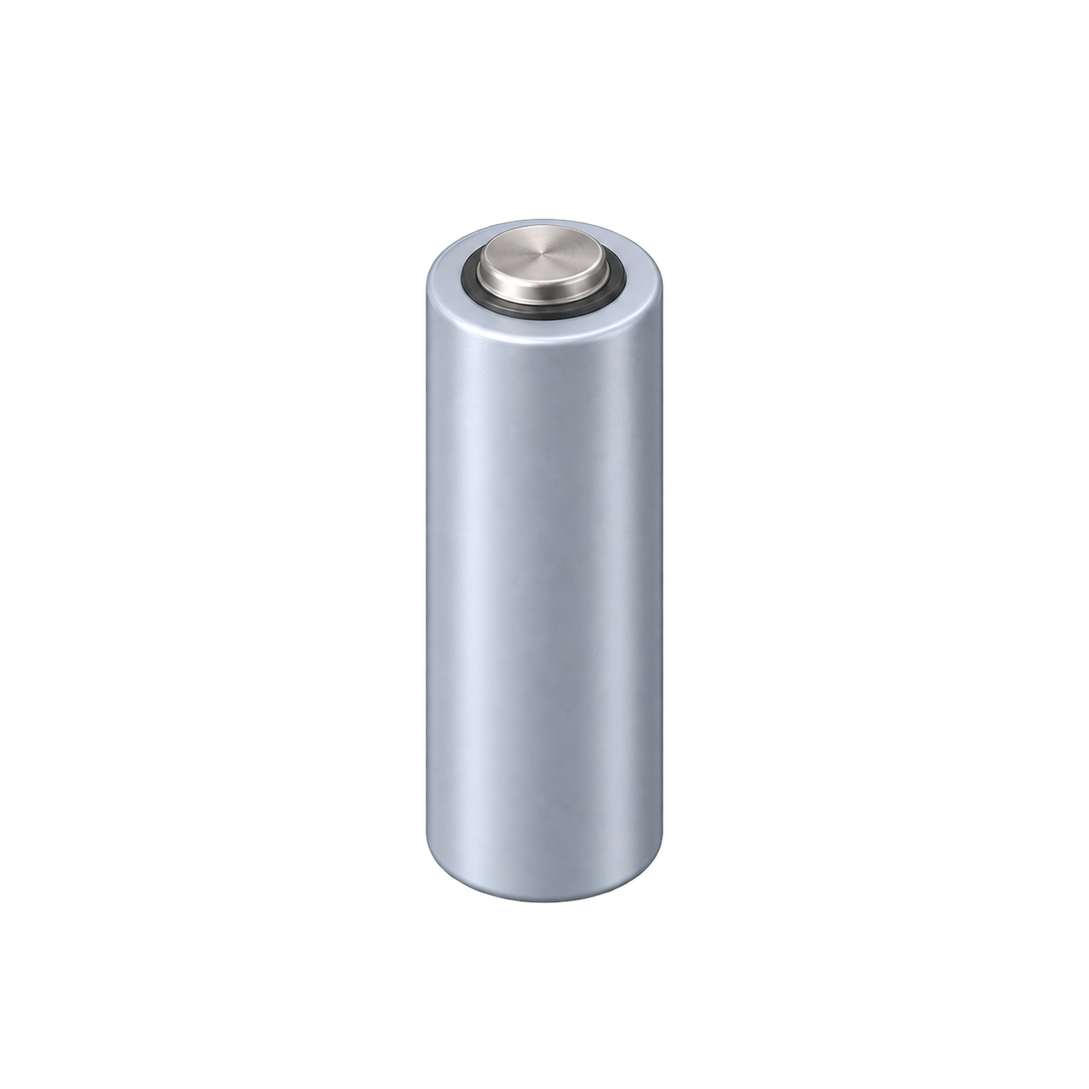
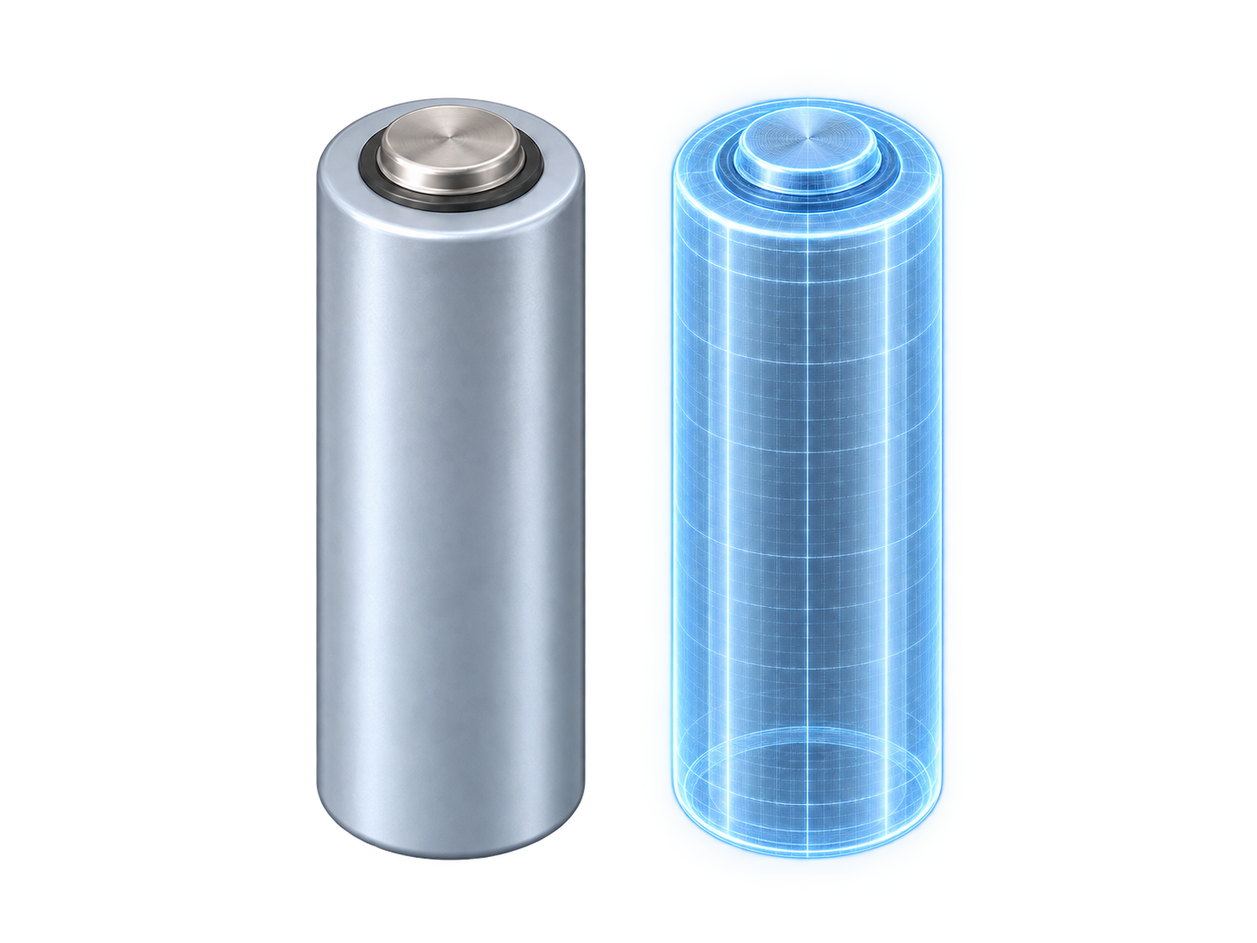
Improve Studio workflow and digital twin visuals

diff --git a/styles/digital-twin.css b/styles/digital-twin.css
@@ -7,31 +7,60 @@
 .studio-section-heading { margin-bottom: 24px; }
 #page-digital-twin .studio-section-heading h2 { margin: 0; color: var(--text1); font-family: var(--sans); font-size: clamp(21px,2vw,28px); font-weight: 750; letter-spacing: -.025em; }
 
-/* Explanatory system map. Every bubble contains only the step and title. */
-.studio-process-flow { display: grid; grid-template-columns: minmax(108px,1fr) 28px minmax(122px,1fr) 28px minmax(168px,1.18fr) 28px minmax(128px,1fr); grid-template-rows: auto auto; align-items: center; gap: 22px 8px; padding: 22px; border: 1px solid var(--border); border-radius: 14px; background: linear-gradient(rgba(93,126,174,.045) 1px,transparent 1px),linear-gradient(90deg,rgba(93,126,174,.045) 1px,transparent 1px),var(--surface-alt); background-size: 24px 24px,24px 24px,auto; }
-.studio-process-node { min-width: 0; min-height: 84px; display: flex; align-items: center; gap: 10px; padding: 14px; border: 1px solid var(--border2); border-radius: 16px; color: var(--text2); background: var(--surface); box-shadow: 0 6px 18px rgba(22,30,48,.045); }
-.studio-process-node span { flex: 0 0 30px; display: grid; place-items: center; width: 30px; height: 30px; border-radius: 9px; color: var(--accent); background: var(--accent-light); font-size: 10px; font-weight: 800; }
-.studio-process-node strong { min-width: 0; font-size: 12px; font-weight: 700; line-height: 1.3; }
-.studio-process-calibration { border-color: color-mix(in srgb,var(--accent) 38%,var(--border)); box-shadow: inset 0 0 0 1px color-mix(in srgb,var(--accent) 8%,transparent),0 8px 22px rgba(42,95,234,.07); }
-.studio-process-arrow { color: var(--accent); font-style: normal; font-size: 22px; text-align: center; }
-.studio-process-step-1 { grid-area: 1/1; }.studio-process-arrow-1 { grid-area: 1/2; }
-.studio-process-step-2 { grid-area: 1/3; }.studio-process-arrow-2 { grid-area: 1/4; }
-.studio-process-calibration { grid-area: 1/5; position: relative; }
+/* Explanatory system map. The lower row reads back toward the left, so 03 feeds 04 directly. */
+.studio-process-flow { display: grid; grid-template-columns: minmax(145px,1fr) 34px minmax(150px,1.08fr) 34px minmax(178px,1.24fr); grid-template-rows: auto auto; align-items: center; gap: 22px 8px; padding: 22px; border: 1px solid var(--border); border-radius: 14px; background: linear-gradient(rgba(93,126,174,.045) 1px,transparent 1px),linear-gradient(90deg,rgba(93,126,174,.045) 1px,transparent 1px),var(--surface-alt); background-size: 24px 24px,24px 24px,auto; }
+.studio-process-node { min-width: 0; min-height: 112px; display: grid; grid-template-columns: 32px minmax(0,1fr); align-items: start; gap: 10px; padding: 14px; border: 1px solid var(--border2); border-radius: 16px; color: var(--text2); background: var(--surface); box-shadow: 0 6px 18px rgba(22,30,48,.045); }
+.studio-process-number { display: grid; place-items: center; width: 32px; height: 32px; border-radius: 9px; color: var(--accent); background: var(--accent-light); font-size: 10px; font-weight: 800; }
+.studio-process-body { min-width: 0; display: grid; grid-template-columns: 27px minmax(0,1fr); grid-template-rows: auto auto; column-gap: 8px; align-items: center; }
+.studio-process-icon { grid-row: 1/3; display: grid; place-items: center; width: 27px; height: 27px; border-radius: 8px; color: #2a5fea; background: color-mix(in srgb,var(--accent) 11%,var(--surface)); }
+.studio-process-icon svg { width: 17px; height: 17px; fill: none; stroke: currentColor; stroke-width: 1.8; stroke-linecap: round; stroke-linejoin: round; }
+.studio-process-node strong { min-width: 0; color: var(--text1); font-size: 12px; font-weight: 750; line-height: 1.25; }
+.studio-process-node small { min-width: 0; margin-top: 3px; color: var(--text3); font-size: 10px; line-height: 1.3; }
+.studio-process-step-1 .studio-process-icon { color: #16845b; background: rgba(22,163,107,.11); }.studio-process-step-2 .studio-process-icon { color: #7c3aed; background: rgba(124,58,237,.1); }.studio-process-setup .studio-process-icon { color: #d97706; background: rgba(217,119,6,.1); }.studio-process-result .studio-process-icon { color: #16845b; background: rgba(22,163,107,.11); }
+.studio-process-calibration { grid-area: 1/5; position: relative; border-color: color-mix(in srgb,var(--accent) 46%,var(--border)); box-shadow: inset 0 0 0 1px color-mix(in srgb,var(--accent) 9%,transparent),0 8px 22px rgba(42,95,234,.07); }
 .studio-process-calibration::after { content: ''; position: absolute; top: 100%; left: 50%; width: 1.5px; height: 23px; background: var(--accent); }
 .studio-process-calibration::before { content: ''; position: absolute; z-index: 2; left: calc(50% - 4px); top: calc(100% + 15px); width: 7px; height: 7px; border-right: 1.5px solid var(--accent); border-bottom: 1.5px solid var(--accent); transform: rotate(45deg); }
-.studio-process-setup { grid-area: 2/3; }.studio-process-arrow-4 { grid-area: 2/4; }
-.studio-process-engine { grid-area: 2/5; }.studio-process-arrow-5 { grid-area: 2/6; }
-.studio-process-result { grid-area: 2/7; }
-.studio-process-engine { border-color: color-mix(in srgb,var(--accent) 48%,var(--border)); background: linear-gradient(145deg,color-mix(in srgb,var(--accent) 11%,var(--surface)),var(--surface)); }
-.studio-process-engine span { color: #fff; background: linear-gradient(145deg,#2a5fea,#6146d7); }
-.studio-process-engine .studio-process-piml-logo { flex-basis: 34px; width: 34px; height: 34px; border-radius: 50%; }
-.studio-process-piml-logo svg { width: 24px; height: 24px; fill: none; stroke: currentColor; stroke-width: 1.25; }
-.studio-process-piml-logo svg circle { fill: currentColor; stroke: none; }
-.studio-process-result { border-color: color-mix(in srgb,#16a36b 32%,var(--border)); }
-.studio-process-result span { color: #16845b; background: rgba(22,163,107,.1); }
-.studio-piml-explanation { display: grid; grid-template-columns: minmax(0,1fr) minmax(420px,1.15fr); align-items: stretch; gap: 16px; margin-top: 16px; padding: 18px; border: 1px solid color-mix(in srgb,var(--accent) 24%,var(--border)); border-radius: 13px; background: color-mix(in srgb,var(--accent) 3%,var(--surface)); }
-.studio-piml-explanation .studio-piml-diagram { min-height: 122px; padding: 0; }
-.studio-piml-explanation .studio-piml-core { min-height: 100px; }
+.studio-process-arrow { color: var(--accent); font-style: normal; font-size: 22px; font-weight: 650; text-align: center; }
+.studio-process-step-1 { grid-area: 1/1; }.studio-process-arrow-1 { grid-area: 1/2; }.studio-process-step-2 { grid-area: 1/3; }.studio-process-arrow-2 { grid-area: 1/4; }
+.studio-process-setup { grid-area: 2/5; }.studio-process-arrow-4 { grid-area: 2/4; }.studio-process-engine { grid-area: 2/3; }.studio-process-arrow-5 { grid-area: 2/2; }.studio-process-result { grid-area: 2/1; }
+.studio-process-engine { position: relative; overflow: hidden; border-color: rgba(147,197,253,.68); color: var(--text1); background: linear-gradient(135deg,rgba(96,165,250,.18),rgba(147,197,253,.36) 38%,rgba(125,211,252,.30) 72%,rgba(96,165,250,.20)),var(--surface); box-shadow: 0 10px 25px rgba(96,165,250,.14),inset 0 1px 0 rgba(255,255,255,.38); }
+.studio-process-engine .studio-process-number { color: var(--accent); background: rgba(255,255,255,.58); font-size: 9px; }.studio-process-engine strong,.studio-process-engine small { position: relative; color: var(--text1); }.studio-process-engine small { color: var(--text3); }.studio-process-engine .studio-process-icon { color: var(--accent); background: rgba(255,255,255,.5); }
+.studio-process-piml-logo svg { width: 20px; height: 20px; stroke-width: 1.3; }.studio-process-piml-logo svg circle { fill: currentColor; stroke: none; }
+.studio-process-result { border-color: color-mix(in srgb,#16a36b 38%,var(--border)); }
+.studio-piml-explanation { display: grid; grid-template-columns: minmax(300px,.92fr) minmax(420px,1.15fr); align-items: stretch; gap: 16px; margin-top: 16px; padding: 18px; border: 1px solid color-mix(in srgb,#6146d7 32%,var(--border)); border-radius: 14px; background: linear-gradient(110deg,color-mix(in srgb,var(--accent) 5%,var(--surface)),color-mix(in srgb,#6146d7 5%,var(--surface))); }
+.studio-piml-formula-card { display: flex; flex-direction: column; justify-content: center; gap: 13px; min-width: 0; padding: 16px; border: 1px solid color-mix(in srgb,var(--accent) 21%,var(--border)); border-radius: 12px; background: var(--surface); }
+.studio-piml-card-title { display: flex; align-items: center; gap: 9px; }.studio-piml-card-title > span { display: grid; place-items: center; width: 31px; height: 31px; border-radius: 9px; color: #fff; background: linear-gradient(145deg,#2a5fea,#6146d7); font: 800 16px var(--mono); }.studio-piml-card-title div { display: grid; gap: 2px; }.studio-piml-card-title strong { color: var(--text1); font-size: 12px; }.studio-piml-card-title small { color: var(--text3); font-size: 10px; }
+.studio-piml-explanation .studio-formula { min-height: 64px; padding: 10px; border-color: color-mix(in srgb,var(--accent) 15%,var(--border)); background: var(--surface-alt); font-size: clamp(12px,1.15vw,16px); }
+.studio-piml-explanation .studio-piml-diagram { min-height: 148px; padding: 4px 4px 0; }.studio-piml-explanation .studio-piml-core { min-height: 122px; }
+
+/* Compact visual previews keep each step illustrative without turning the map into a dashboard. */
+.studio-process-node { display: block; min-height: 148px; padding: 13px; }
+.studio-process-node-head { display: flex; align-items: center; gap: 9px; min-width: 0; }.studio-process-node-head .studio-process-number { flex: 0 0 32px; }.studio-process-node-head strong { min-width: 0; font-size: 13px; line-height: 1.2; }
+.studio-process-visual { position: relative; min-width: 0; margin: 10px 0 0 41px; }.studio-process-visual > span { color: var(--text3); font-size: 9px; }
+.studio-dataset-preview { display: flex; align-items: center; gap: 8px; min-height: 68px; }.studio-dataset-preview img { display: block; width: 44px; height: 66px; object-fit: contain; filter: drop-shadow(0 4px 4px rgba(25,43,78,.16)); }.studio-dataset-preview div { display: grid; gap: 4px; }.studio-dataset-preview b { color: var(--text1); font-size: 12px; }.studio-dataset-preview small { color: #16845b; font-size: 10px; font-weight: 650; }
+.studio-feature-preview svg,.studio-results-preview svg { display: block; width: 100%; height: 48px; overflow: visible; }.studio-feature-preview > span,.studio-results-preview > span { display: flex; align-items: center; gap: 5px; margin-top: 4px; color: var(--text3); font-size: 9px; }.feature-grid { fill: none; stroke: var(--border); stroke-width: 1; }.feature-voltage,.feature-temperature,.result-voltage,.result-capacity { fill: none; stroke-width: 1.7; stroke-linecap: round; stroke-linejoin: round; }.feature-voltage,.result-voltage { stroke: #2a5fea; }.feature-temperature { stroke: #16a36b; }.result-capacity { stroke: #7c3aed; }.dot-voltage { display: inline-block; width: 6px; height: 6px; border-radius: 50%; background: #2a5fea; }
+.studio-twin-preview { display: grid; place-items: center; min-height: 84px; overflow: hidden; border-radius: 10px; background: radial-gradient(circle at 50% 42%,rgba(65,196,255,.18),transparent 45%),linear-gradient(135deg,#112d69,#1e56b2); }.studio-twin-preview img { z-index: 1; width: 54px; height: 73px; object-fit: contain; filter: brightness(1.28) saturate(.45) drop-shadow(0 0 7px rgba(105,220,255,.9)); }.studio-twin-preview > span:last-child { position: absolute; z-index: 2; right: 8px; bottom: 6px; color: rgba(227,248,255,.88); font-size: 8px; }.studio-twin-orbit { position: absolute; width: 132px; height: 31px; border: 1px solid rgba(96,211,255,.65); border-radius: 50%; }.studio-twin-orbit.orbit-one { transform: rotate(-8deg); }.studio-twin-orbit.orbit-two { transform: rotate(9deg) scale(.74); opacity: .58; }
+.studio-scenario-preview { display: grid; grid-template-columns: repeat(2,minmax(0,1fr)); gap: 6px; }.studio-scenario-preview > span { display: flex; align-items: center; gap: 5px; min-width: 0; min-height: 35px; padding: 6px; border: 1px solid color-mix(in srgb,var(--accent) 16%,var(--border)); border-radius: 8px; color: var(--text2); background: var(--surface); font-size: 9px; font-weight: 650; line-height: 1.2; }.studio-scenario-preview i { display: grid; place-items: center; flex: 0 0 18px; width: 18px; height: 18px; border-radius: 6px; color: #d97706; background: rgba(217,119,6,.1); font-style: normal; font-size: 13px; }.studio-scenario-preview > span:last-child i { color: #0891b2; background: rgba(8,145,178,.1); }
+.studio-engine-logo img { position: relative; z-index: 1; mix-blend-mode: normal; }
+.studio-process-result { box-shadow: 0 6px 18px rgba(22,163,107,.08); }
+
+/* Five supplied Studio illustrations carry the visual story; the connector treatment is uniform in every direction. */
+.studio-process-flow { grid-template-columns: minmax(155px,1fr) 34px minmax(165px,1.08fr) 34px minmax(190px,1.24fr); grid-template-rows: auto 34px auto; row-gap: 7px; }
+.studio-process-node { min-height: 172px; padding: 13px; }.studio-process-node-head strong { font-size: 13px; }.studio-process-logo { height: 108px; margin: 3px 0 0 40px; overflow: hidden; }.studio-process-logo img { display: block; width: 116%; height: 116%; margin: -8% 0 0 -8%; object-fit: contain; mix-blend-mode: multiply; }
+.studio-process-step-1 { grid-area: 1/1; }.studio-process-arrow-1 { grid-area: 1/2; }.studio-process-step-2 { grid-area: 1/3; }.studio-process-arrow-2 { grid-area: 1/4; }.studio-process-calibration { grid-area: 1/5; }.studio-process-arrow-3 { grid-area: 2/5; }.studio-process-setup { grid-area: 3/5; }.studio-process-arrow-4 { grid-area: 3/4; }.studio-process-result { grid-area: 3/3; }
+.studio-process-calibration::before,.studio-process-calibration::after { display: none; }
+.studio-process-arrow { position: relative; display: block; align-self: center; width: 34px; height: 34px; color: transparent; font-size: 0; }
+.studio-process-arrow::before,.studio-process-arrow::after { content: ''; position: absolute; box-sizing: border-box; }
+.studio-process-arrow-1::before,.studio-process-arrow-2::before { top: 16px; left: 4px; width: 25px; border-top: 1.5px solid var(--accent); }.studio-process-arrow-1::after,.studio-process-arrow-2::after { top: 12px; right: 4px; width: 8px; height: 8px; border-top: 1.5px solid var(--accent); border-right: 1.5px solid var(--accent); transform: rotate(45deg); }
+.studio-process-arrow-4::before { top: 16px; left: 5px; width: 25px; border-top: 1.5px solid var(--accent); }.studio-process-arrow-4::after { top: 12px; left: 4px; width: 8px; height: 8px; border-bottom: 1.5px solid var(--accent); border-left: 1.5px solid var(--accent); transform: rotate(45deg); }
+.studio-process-arrow-3::before { top: 3px; left: 16px; height: 25px; border-left: 1.5px solid var(--accent); }.studio-process-arrow-3::after { bottom: 4px; left: 12px; width: 8px; height: 8px; border-right: 1.5px solid var(--accent); border-bottom: 1.5px solid var(--accent); transform: rotate(45deg); }
+
+/* Keep the familiar horizontal arrows; only the 03 → 04 transition is vertical. */
+.studio-process-flow { grid-template-rows: auto 28px auto; row-gap: 8px; }
+.studio-process-node { min-height: clamp(178px,17vw,218px); }.studio-process-logo { height: clamp(132px,11vw,166px); margin: 7px 2px 0; }.studio-process-logo img { width: 100%; height: 100%; margin: 0; object-fit: contain; transform: scale(1.34); transform-origin: center; }
+.studio-process-step-1 { grid-area: 1/1; }.studio-process-arrow-1 { grid-area: 1/2; }.studio-process-step-2 { grid-area: 1/3; }.studio-process-arrow-2 { grid-area: 1/4; }.studio-process-calibration { grid-area: 1/5; }.studio-process-arrow-3 { grid-area: 2/5; }.studio-process-setup { grid-area: 3/5; }.studio-process-arrow-4 { grid-area: 3/4; }.studio-process-engine { grid-area: 3/3; }.studio-process-arrow-5 { grid-area: 3/2; }.studio-process-result { grid-area: 3/1; }
+.studio-process-arrow { display: grid; place-items: center; width: auto; height: auto; color: var(--accent); font: 650 22px/1 var(--sans); text-align: center; }.studio-process-arrow::before,.studio-process-arrow::after { display: none; }.studio-process-arrow-3 { font-size: 22px; }
+.studio-engine-logo { position: relative; z-index: 1; border-radius: 0; background: transparent; }
 
 /* One unified working surface below the explanation. */
 .studio-operation-grid { display: grid; grid-template-columns: repeat(2,minmax(0,1fr)); gap: 20px; align-items: stretch; }
@@ -74,30 +103,34 @@
 #studio-confirm { min-width: 110px; }
 
 /* Feature cards */
-.studio-feature-grid { display: grid; grid-template-columns: repeat(3,minmax(0,1fr)); gap: 12px; }
-.studio-signal-card { min-width: 0; margin: 0; padding: 15px 15px 9px; border: 1px solid var(--border); border-radius: 11px; background: var(--surface); }
+.studio-features-step { display: flex; flex-direction: column; container-type: inline-size; }
+.studio-feature-grid { display: grid; flex: 1; grid-template-columns: repeat(3,minmax(0,1fr)); grid-auto-rows: minmax(132px,1fr); gap: 12px; }
+.studio-signal-card { min-width: 0; min-height: 0; display: flex; flex-direction: column; margin: 0; padding: 15px 15px 9px; border: 1px solid var(--border); border-radius: 11px; background: var(--surface); }
 .studio-signal-card figcaption { display: flex; align-items: baseline; justify-content: flex-start; gap: 8px; }
 .studio-signal-card figcaption strong { color: var(--text2); font-size: 12px; font-weight: 650; }
-.studio-signal-card svg { display: block; width: 100%; height: auto; margin-top: 6px; overflow: visible; }
+.studio-signal-card svg { display: block; flex: 1; width: 100%; min-height: 96px; height: 100%; margin-top: 6px; overflow: visible; }
 .studio-signal-card text { fill: var(--text4); font: 9px var(--sans); }
 .studio-mini-grid { fill: none; stroke: var(--border); stroke-width: 1; }
 .studio-signal-line { fill: none; stroke-width: 2.2; stroke-linecap: round; stroke-linejoin: round; }
 .line-blue { stroke: #2a5fea; }.line-cyan { stroke: #0891b2; }.line-amber { stroke: #d97706; }.line-violet { stroke: #7c3aed; }.line-rose { stroke: #e11d48; }.line-green { stroke: #16a36b; }
 .studio-signal-band { fill: rgba(22,163,107,.1); stroke: none; }
 .studio-feature-grid.is-reset .studio-signal-line,.studio-feature-grid.is-reset .studio-signal-band { opacity: 0; }
+@container (max-width:700px) { .studio-feature-grid { grid-template-columns: repeat(2,minmax(0,1fr)); grid-auto-rows: minmax(128px,1fr); }.studio-signal-card svg { min-height: 92px; } }
 
 /* PIML explanation and the combined calibration/twin workbench. */
 .studio-formula { min-height: 54px; display: flex; align-items: center; justify-content: center; padding: 10px 14px; border: 1px solid var(--border); border-radius: 9px; color: var(--text2); background: var(--surface-alt); font: 500 clamp(13px,1.4vw,18px) var(--mono); text-align: center; overflow-x: auto; }
 .studio-formula > span { color: var(--accent); font-weight: 700; }
 .studio-piml-diagram { display: grid; grid-template-columns: minmax(150px,1fr) 68px minmax(145px,.9fr); align-items: center; gap: 10px; min-height: 168px; padding: 16px 8px 0; }
 .studio-piml-inputs { display: grid; gap: 12px; }
-.studio-piml-inputs > span { display: flex; align-items: center; gap: 9px; padding: 11px; border: 1px solid var(--border); border-radius: 9px; color: var(--text2); font-size: 12px; font-weight: 600; }
-.studio-piml-inputs i { display: grid; place-items: center; flex: 0 0 27px; width: 27px; height: 27px; border-radius: 7px; color: var(--accent); background: var(--accent-light); font: 700 14px var(--mono); }
+.studio-piml-inputs > span { display: flex; align-items: center; gap: 9px; min-height: 51px; padding: 11px; border: 1px solid var(--border); border-radius: 9px; color: var(--text2); }
+.studio-piml-inputs i { display: grid; place-items: center; flex: 0 0 27px; width: 27px; height: 27px; border-radius: 7px; color: var(--accent); background: var(--accent-light); }
+.studio-piml-inputs i svg { width: 16px; height: 16px; fill: none; stroke: currentColor; stroke-width: 1.8; stroke-linecap: round; stroke-linejoin: round; }.studio-piml-inputs b { min-width: 0; font-size: 12px; font-weight: 650; line-height: 1.3; }
 .studio-piml-diagram > svg { width: 100%; fill: none; stroke: var(--border2); stroke-width: 1.5; }
-.studio-piml-core { position: relative; isolation: isolate; display: flex; flex-direction: column; align-items: center; justify-content: center; min-height: 112px; border: 1px solid color-mix(in srgb,var(--accent) 35%,var(--border)); border-radius: 50%; color: var(--accent); background: radial-gradient(circle at 50% 40%,var(--surface),var(--accent-light)); }
-.studio-piml-core strong { font: 800 19px var(--mono); letter-spacing: .08em; }
-.studio-piml-core small { margin-top: 5px; color: var(--text3); font-size: 9px; }
-.studio-core-orbit { position: absolute; z-index: -1; inset: -7px; border: 1px dashed color-mix(in srgb,var(--accent) 28%,transparent); border-radius: 50%; }
+.studio-piml-core { position: relative; isolation: isolate; display: flex; flex-direction: column; align-items: center; justify-content: center; min-height: 112px; overflow: hidden; border: 1px solid rgba(147,197,253,.68); border-radius: 16px; color: var(--accent); background: linear-gradient(135deg,rgba(96,165,250,.18),rgba(147,197,253,.36) 38%,rgba(125,211,252,.30) 72%,rgba(96,165,250,.20)),var(--surface); box-shadow: 0 10px 25px rgba(96,165,250,.14),inset 0 1px 0 rgba(255,255,255,.38); }
+.studio-piml-core > :not(.studio-core-orbit) { position: relative; z-index: 1; }
+.studio-piml-core > svg { width: 29px; height: 29px; margin-bottom: 5px; fill: none; stroke: currentColor; stroke-width: 1.25; }.studio-piml-core > svg circle { fill: currentColor; stroke: none; }
+.studio-piml-core strong { color: var(--text1); font: 800 19px var(--mono); letter-spacing: .08em; }.studio-piml-core small { margin-top: 3px; color: var(--text3); font-size: 9px; }.studio-piml-core em { margin-top: 5px; padding: 2px 6px; border-radius: 99px; color: var(--accent); background: rgba(255,255,255,.48); font: 600 8px var(--sans); font-style: normal; letter-spacing: .04em; text-transform: uppercase; }
+.studio-core-orbit { position: absolute; z-index: 0; inset: 8px; border: 1px dashed rgba(42,95,234,.28); border-radius: 50%; }
 .studio-calibration-workbench { display: grid; grid-template-columns: minmax(330px,.9fr) minmax(0,1.5fr); gap: 16px; align-items: stretch; }
 .studio-live-loss { display: flex; flex-direction: column; justify-content: center; padding: 20px; border: 1px solid var(--border); border-radius: 12px; background: var(--surface); }
 .studio-twin-build-panel { min-width: 0; display: grid; grid-template-columns: 160px minmax(0,1fr); align-items: center; gap: 18px; padding: 18px; border: 1px solid var(--border); border-radius: 12px; background: var(--surface); }
@@ -131,8 +164,35 @@
 .studio-twin-caption strong { display: block; color: var(--text2); font-size: 14px; font-weight: 650; }
 .studio-twin-caption span { color: var(--text3); font-size: 11px; }
 .studio-visual-placeholder { color: var(--text4); }
-.studio-twin-visual { position: relative; isolation: isolate; width: 100%; min-height: 235px; display: flex; align-items: center; justify-content: center; margin-top: 16px; border-radius: 12px; background: linear-gradient(rgba(93,126,174,.045) 1px,transparent 1px),linear-gradient(90deg,rgba(93,126,174,.045) 1px,transparent 1px); background-size: 18px 18px; overflow: hidden; }
-.studio-twin-image { position: relative; z-index: 1; display: block; width: min(55%,340px); height: 245px; object-fit: contain; margin: 18px auto 0; filter: drop-shadow(0 16px 21px rgba(45,67,98,.16)); }
+.studio-twin-visual { position: relative; isolation: isolate; width: 100%; min-height: 235px; display: flex; align-items: center; justify-content: center; margin-top: 16px; border-radius: 12px; background: radial-gradient(ellipse at 50% 84%,rgba(56,189,248,.15),transparent 45%),linear-gradient(rgba(93,126,174,.055) 1px,transparent 1px),linear-gradient(90deg,rgba(93,126,174,.055) 1px,transparent 1px); background-size: auto,18px 18px,18px 18px; overflow: hidden; }
+.studio-twin-effects { position: absolute; z-index: 0; inset: 0; overflow: hidden; pointer-events: none; }
+.studio-twin-beam { position: absolute; left: 50%; bottom: 19px; width: min(72%,420px); height: 220px; transform: translateX(-50%); border: 1px solid rgba(125,211,252,.24); border-radius: 46% 46% 28% 28% / 30% 30% 20% 20%; background: radial-gradient(ellipse at 50% 86%,rgba(56,189,248,.3) 0%,rgba(77,190,255,.16) 34%,rgba(96,165,250,.07) 57%,transparent 74%),linear-gradient(90deg,transparent 0%,rgba(125,211,252,.08) 18%,rgba(224,248,255,.14) 50%,rgba(125,211,252,.08) 82%,transparent 100%); box-shadow: inset 22px 0 35px -30px rgba(56,189,248,.75),inset -22px 0 35px -30px rgba(56,189,248,.75),0 0 28px rgba(56,189,248,.13); filter: drop-shadow(0 0 8px rgba(56,189,248,.18)); }
+.studio-twin-beam::before { content: ''; position: absolute; inset: 7% 5% 11%; border: 1px dashed rgba(125,211,252,.2); border-radius: inherit; }
+.studio-twin-beam::after { content: ''; position: absolute; left: 4%; right: 4%; bottom: -2px; height: 57px; border: 1px solid rgba(125,211,252,.35); border-radius: 50%; background: radial-gradient(ellipse,rgba(224,248,255,.2),rgba(56,189,248,.08) 48%,transparent 70%); box-shadow: 0 0 20px rgba(56,189,248,.16); }
+.studio-twin-platform { position: absolute; z-index: 1; left: 50%; bottom: 17px; width: min(70%,390px); height: 68px; transform: translateX(-50%); border: 1.5px solid rgba(56,189,248,.8); border-radius: 50%; background: radial-gradient(ellipse,rgba(224,248,255,.68) 0%,rgba(56,189,248,.18) 38%,rgba(42,95,234,.08) 58%,transparent 72%); box-shadow: 0 0 0 7px rgba(56,189,248,.07),0 0 0 14px rgba(42,95,234,.045),0 0 28px rgba(56,189,248,.32),inset 0 0 18px rgba(255,255,255,.6); }
+.studio-twin-platform::before,.studio-twin-platform::after { content: ''; position: absolute; left: 50%; top: 50%; border-radius: 50%; transform: translate(-50%,-50%); }
+.studio-twin-platform::before { width: 72%; height: 58%; border: 1px solid rgba(42,95,234,.58); box-shadow: 0 0 10px rgba(56,189,248,.25); }
+.studio-twin-platform::after { width: 31%; height: 20%; background: rgba(224,248,255,.78); box-shadow: 0 0 20px 8px rgba(56,189,248,.38); }
+.studio-twin-scan { position: absolute; z-index: 1; left: 50%; bottom: 21px; width: min(62%,350px); height: 56px; border: 1px dashed rgba(42,95,234,.48); border-radius: 50%; transform: translateX(-50%); animation: studio-twin-scan 3.2s ease-in-out infinite; }
+.studio-twin-particles { position: absolute; inset: 20px 9% 54px; opacity: .68; background: radial-gradient(circle at 16% 67%,rgba(56,189,248,.9) 0 1.5px,transparent 2px),radial-gradient(circle at 28% 28%,rgba(42,95,234,.65) 0 1px,transparent 1.7px),radial-gradient(circle at 74% 22%,rgba(56,189,248,.78) 0 1.5px,transparent 2px),radial-gradient(circle at 84% 61%,rgba(42,95,234,.7) 0 1px,transparent 1.7px),radial-gradient(circle at 63% 48%,rgba(125,211,252,.85) 0 1px,transparent 1.8px); filter: drop-shadow(0 0 4px rgba(56,189,248,.75)); }
+.studio-twin-image { position: relative; z-index: 2; display: block; width: min(58%,355px); height: 245px; object-fit: contain; margin: 18px auto 0; filter: drop-shadow(0 16px 21px rgba(45,67,98,.16)) drop-shadow(0 0 10px rgba(56,189,248,.16)); }
+.twin-form-prismatic,.twin-form-pouch { min-height: 310px; }
+.twin-form-prismatic .studio-twin-image,.twin-form-pouch .studio-twin-image { width: min(76%,430px); height: 210px; }
+.twin-form-prismatic .studio-twin-beam,.twin-form-pouch .studio-twin-beam { bottom: 20px; width: min(91%,520px); height: 235px; border-radius: 43% 43% 26% 26% / 32% 32% 22% 22%; }
+.twin-form-prismatic .studio-twin-tag.tag-soc,.twin-form-pouch .studio-twin-tag.tag-soc { top: 10px; left: 4%; }
+.twin-form-prismatic .studio-twin-tag.tag-soh,.twin-form-pouch .studio-twin-tag.tag-soh { top: 10px; right: 4%; }
+.twin-form-prismatic .studio-twin-tag.tag-voltage,.twin-form-pouch .studio-twin-tag.tag-voltage { bottom: 9px; left: 4%; }
+.twin-form-prismatic .studio-twin-tag.tag-temperature,.twin-form-pouch .studio-twin-tag.tag-temperature { right: 4%; bottom: 9px; }
+.twin-form-18650 .studio-twin-beam,.twin-form-21700 .studio-twin-beam,.twin-form-cyl .studio-twin-beam { width: min(72%,420px); height: 224px; }
+.studio-twin-tags { position: absolute; z-index: 3; inset: 0; pointer-events: none; }
+.studio-twin-tag { position: absolute; display: flex; align-items: center; gap: 6px; min-height: 31px; padding: 6px 9px; border: 1px solid rgba(96,165,250,.3); border-radius: 8px; color: var(--text2); background: color-mix(in srgb,var(--surface) 84%,transparent); box-shadow: 0 6px 15px rgba(42,95,234,.1),inset 0 1px 0 rgba(255,255,255,.48); backdrop-filter: blur(7px); -webkit-backdrop-filter: blur(7px); font-size: 11px; line-height: 1; white-space: nowrap; animation: studio-twin-float 4s ease-in-out infinite; }
+.studio-twin-tag i { flex: 0 0 6px; width: 6px; height: 6px; border-radius: 50%; background: #2a5fea; box-shadow: 0 0 7px rgba(42,95,234,.55); }
+.studio-twin-tag b { color: var(--text2); font-size: 11px; font-weight: 700; }.studio-twin-tag em { color: var(--accent); font-size: 11px; font-style: normal; font-weight: 750; font-variant-numeric: tabular-nums; }
+.studio-twin-tag.tag-soc { top: 36px; left: 5%; }.studio-twin-tag.tag-soh { top: 36px; right: 5%; animation-delay: -.9s; }.studio-twin-tag.tag-voltage { bottom: 47px; left: 3%; animation-delay: -1.8s; }.studio-twin-tag.tag-temperature { right: 3%; bottom: 47px; animation-delay: -2.7s; }
+.studio-twin-tag.tag-soh i { background: #16a36b; box-shadow: 0 0 7px rgba(22,163,107,.5); }.studio-twin-tag.tag-voltage i { background: #7c3aed; box-shadow: 0 0 7px rgba(124,58,237,.5); }.studio-twin-tag.tag-temperature i { background: #f59e0b; box-shadow: 0 0 7px rgba(245,158,11,.5); }
+@keyframes studio-twin-scan { 0%,100% { opacity: .3; transform: translateX(-50%) scale(.86); } 50% { opacity: .8; transform: translateX(-50%) scale(1.08); } }
+@keyframes studio-twin-float { 0%,100% { transform: translateY(0); } 50% { transform: translateY(-5px); } }
+@media (prefers-reduced-motion:reduce) { .studio-twin-scan,.studio-twin-tag { animation: none; }.studio-twin-scan { opacity: .58; } }
 .studio-twin-build-panel .studio-stage { min-height: 310px; }
 /* Generation setup */
 .studio-setup { display: grid; grid-template-columns: minmax(0,1fr) auto; align-items: end; gap: 22px; }
@@ -198,16 +258,13 @@
   .studio-control { grid-template-columns: 110px minmax(50px,1fr) 122px; gap: 10px; }
 }
 @media (max-width:1000px) {
-  .studio-process-flow { grid-template-columns: repeat(2,minmax(0,1fr)); grid-template-rows: repeat(9,auto); }
-  .studio-process-node { width: 100%; min-height: 68px; }
-  .studio-process-step-1 { grid-area: 1/1/2/3; }.studio-process-arrow-1 { grid-area: 2/1/3/3; }
-  .studio-process-step-2 { grid-area: 3/1/4/3; }.studio-process-arrow-2 { grid-area: 4/1/5/3; }
-  .studio-process-calibration { grid-area: 5/1; }.studio-process-setup { grid-area: 5/2; }
-  .studio-process-arrow-4 { grid-area: 6/1/7/3; }
-  .studio-process-engine { grid-area: 7/1/8/3; }.studio-process-arrow-5 { grid-area: 8/1/9/3; }
-  .studio-process-result { grid-area: 9/1/10/3; }
-  .studio-process-arrow { transform: rotate(90deg); }
-  .studio-process-calibration::before,.studio-process-calibration::after { display: none; }
+  .studio-process-flow { grid-template-columns: minmax(0,1fr); grid-template-rows: repeat(10,auto); }
+  .studio-process-node { width: 100%; min-height: 138px; }
+  .studio-process-step-1 { grid-area: 1/1; }.studio-process-arrow-1 { grid-area: 2/1; }
+  .studio-process-step-2 { grid-area: 3/1; }.studio-process-arrow-2 { grid-area: 4/1; }
+  .studio-process-calibration { grid-area: 5/1; }.studio-process-setup { grid-area: 6/1; }
+  .studio-process-arrow-4 { grid-area: 7/1; }.studio-process-engine { grid-area: 8/1; }.studio-process-arrow-5 { grid-area: 9/1; }.studio-process-result { grid-area: 10/1; }
+  .studio-process-arrow-1,.studio-process-arrow-2 { transform: rotate(90deg); }.studio-process-arrow-4,.studio-process-arrow-5 { transform: rotate(-90deg); }
   .studio-piml-explanation,.studio-calibration-workbench { grid-template-columns: minmax(0,1fr); }
   #studio-controls { grid-template-columns: minmax(0,1fr); }
 }
@@ -235,5 +292,11 @@
   .studio-scenario { grid-template-columns: minmax(0,1fr); gap: 8px; }
   #page-digital-twin .studio-run { width: 100%; }
   .studio-metrics { gap: 6px; }.studio-metric { padding-inline: 7px; }.studio-metric strong { font-size: 18px; }
-  .studio-stage { padding: 22px; }.studio-twin-image { width: 75%; }
+  .studio-stage { padding: 22px; }.studio-twin-image { width: 75%; }.studio-twin-tag { gap: 4px; padding: 5px 7px; }.studio-twin-tag.tag-soc,.studio-twin-tag.tag-voltage { left: 1%; }.studio-twin-tag.tag-soh,.studio-twin-tag.tag-temperature { right: 1%; }
+}
+
+@media (max-width:1000px) {
+  .studio-process-flow { grid-template-columns: minmax(0,1fr); grid-template-rows: repeat(11,auto); row-gap: 7px; }
+  .studio-process-node { min-height: min(68vw,260px); }.studio-process-logo { height: min(47vw,185px); }.studio-process-step-1 { grid-area: 1/1; }.studio-process-arrow-1 { grid-area: 2/1; }.studio-process-step-2 { grid-area: 3/1; }.studio-process-arrow-2 { grid-area: 4/1; }.studio-process-calibration { grid-area: 5/1; }.studio-process-arrow-3 { grid-area: 6/1; }.studio-process-setup { grid-area: 7/1; }.studio-process-arrow-4 { grid-area: 8/1; }.studio-process-engine { grid-area: 9/1; }.studio-process-arrow-5 { grid-area: 10/1; }.studio-process-result { grid-area: 11/1; }
+  .studio-process-arrow,.studio-process-arrow-1,.studio-process-arrow-2,.studio-process-arrow-3,.studio-process-arrow-4,.studio-process-arrow-5 { transform: none; }
 }

diff --git a/index.html b/index.html
@@ -28,7 +28,7 @@
 <link rel="stylesheet" href="styles/preprocessing.css">
 <link rel="stylesheet" href="styles/contribute.css">
 <link rel="stylesheet" href="styles/benchmark-results.css?v=real-curves-1">
-<link rel="stylesheet" href="styles/digital-twin.css?v=studio-workspace-15">
+<link rel="stylesheet" href="styles/digital-twin.css?v=studio-workspace-30">
 </head>
 <body>
 <div class="app">
@@ -922,24 +922,28 @@ bash run_benchmark.sh</pre>
     <div class="studio-workspace">
       <section class="studio-explainer" aria-labelledby="studio-overview-title">
         <div class="studio-section-heading"><h2 id="studio-overview-title">How the Studio Works</h2></div>
-        <div class="studio-process-flow" role="img" aria-label="Dataset selection and feature identification feed battery digital twin calibration. The calibrated digital twin and generation setup feed the generation engine, which produces generation results.">
-          <div class="studio-process-node studio-process-step-1"><span>01</span><strong>Select Dataset</strong></div>
+        <div class="studio-process-flow" role="img" aria-label="Select a dataset, identify its features, calibrate a digital twin, configure data generation, run the generation engine, then review generated results.">
+          <div class="studio-process-node studio-process-step-1"><div class="studio-process-node-head"><span class="studio-process-number">01</span><strong>Select Dataset</strong></div><div class="studio-process-logo"><img src="assets/images/studio-flow/select-dataset.png" alt="" aria-hidden="true"></div></div>
           <i class="studio-process-arrow studio-process-arrow-1" aria-hidden="true">→</i>
-          <div class="studio-process-node studio-process-step-2"><span>02</span><strong>Feature Identification</strong></div>
+          <div class="studio-process-node studio-process-step-2"><div class="studio-process-node-head"><span class="studio-process-number">02</span><strong>Feature Identification</strong></div><div class="studio-process-logo"><img src="assets/images/studio-flow/feature-identification.png" alt="" aria-hidden="true"></div></div>
           <i class="studio-process-arrow studio-process-arrow-2" aria-hidden="true">→</i>
-          <div class="studio-process-node studio-process-calibration"><span>03</span><strong>Calibrate Battery Digital Twin</strong></div>
-          <div class="studio-process-node studio-process-setup"><span>04</span><strong>Synthetic Data Generation Setup</strong></div>
-          <i class="studio-process-arrow studio-process-arrow-4" aria-hidden="true">→</i>
-          <div class="studio-process-node studio-process-engine"><span class="studio-process-piml-logo" aria-hidden="true"><svg viewBox="0 0 32 32"><circle cx="16" cy="16" r="4"/><ellipse cx="16" cy="16" rx="13" ry="6"/><ellipse cx="16" cy="16" rx="13" ry="6" transform="rotate(60 16 16)"/><ellipse cx="16" cy="16" rx="13" ry="6" transform="rotate(120 16 16)"/></svg></span><strong>Generation Engine</strong></div>
-          <i class="studio-process-arrow studio-process-arrow-5" aria-hidden="true">→</i>
-          <div class="studio-process-node studio-process-result"><span>05</span><strong>Synthetic Data Generation Results</strong></div>
+          <div class="studio-process-node studio-process-calibration"><div class="studio-process-node-head"><span class="studio-process-number">03</span><strong>Calibrate Digital Twin</strong></div><div class="studio-process-logo"><img src="assets/images/studio-flow/calibrate-digital-twin.png" alt="" aria-hidden="true"></div></div>
+          <i class="studio-process-arrow studio-process-arrow-3" aria-hidden="true">↓</i>
+          <div class="studio-process-node studio-process-setup"><div class="studio-process-node-head"><span class="studio-process-number">04</span><strong>Data Generation Setup</strong></div><div class="studio-process-logo"><img src="assets/images/studio-flow/data-generation-setup.png" alt="" aria-hidden="true"></div></div>
+          <i class="studio-process-arrow studio-process-arrow-4" aria-hidden="true">←</i>
+          <div class="studio-process-node studio-process-engine"><div class="studio-process-node-head"><span class="studio-process-number">PIML</span><strong>Generation Engine</strong></div><div class="studio-process-logo studio-engine-logo"><img src="assets/images/studio-flow/generation-engine.png" alt="" aria-hidden="true"></div></div>
+          <i class="studio-process-arrow studio-process-arrow-5" aria-hidden="true">←</i>
+          <div class="studio-process-node studio-process-result"><div class="studio-process-node-head"><span class="studio-process-number">05</span><strong>Data Generation Results</strong></div><div class="studio-process-logo"><img src="assets/images/studio-flow/data-generation-results.png" alt="" aria-hidden="true"></div></div>
         </div>
         <div class="studio-piml-explanation">
-          <div class="studio-formula" aria-label="Physics-informed machine learning loss formula"><span>ℒ<sub>PIML</sub></span> = λ<sub>d</sub> ‖ŷ − y‖² + λ<sub>p</sub> ‖∂ŷ/∂t − f<sub>physics</sub>(ŷ,u)‖²</div>
+          <div class="studio-piml-formula-card">
+            <div class="studio-piml-card-title"><span aria-hidden="true">ℒ</span><div><strong>Physics-informed objective</strong></div></div>
+            <div class="studio-formula" aria-label="Physics-informed machine learning loss formula"><span>ℒ(θ)</span> = ℒ<sub>data</sub> + λ ℒ<sub>physics</sub></div>
+          </div>
           <div class="studio-piml-diagram" role="img" aria-label="Identified features and physics constraints converge in physics-informed calibration">
-            <div class="studio-piml-inputs"><span><i>ƒ</i> Identified Features</span><span><i>∂</i> Physics Constraints</span></div>
+            <div class="studio-piml-inputs"><span><i><svg viewBox="0 0 24 24"><path d="M3 17c3-8 5 3 8-6s5 4 10-7"/><path d="M3 20h18"/></svg></i><b>Identified Features</b></span><span><i><svg viewBox="0 0 24 24"><path d="m12 3 7 4v10l-7 4-7-4V7z"/><path d="M8 12h8M12 8v8"/></svg></i><b>Physics Constraints</b></span></div>
             <svg viewBox="0 0 68 92" aria-hidden="true"><path d="M2 19h29c13 0 13 27 26 27h9M2 73h29c13 0 13-27 26-27h9"/><path d="m59 40 7 6-7 6"/></svg>
-            <div class="studio-piml-core"><span class="studio-core-orbit"></span><strong>PIML</strong><small>Calibration</small></div>
+            <div class="studio-piml-core"><span class="studio-core-orbit"></span><svg aria-hidden="true" viewBox="0 0 32 32"><circle cx="16" cy="16" r="4"/><ellipse cx="16" cy="16" rx="13" ry="6"/><ellipse cx="16" cy="16" rx="13" ry="6" transform="rotate(60 16 16)"/><ellipse cx="16" cy="16" rx="13" ry="6" transform="rotate(120 16 16)"/></svg><strong>PIML</strong><small>Calibration</small></div>
           </div>
         </div>
       </section>
@@ -967,7 +971,7 @@ bash run_benchmark.sh</pre>
             </div>
           </article>
 
-          <article class="studio-step" aria-labelledby="studio-features-title">
+          <article class="studio-step studio-features-step" aria-labelledby="studio-features-title">
             <div class="studio-step-head"><span class="studio-step-number">02</span><h3 id="studio-features-title">Feature Identification</h3></div>
             <div class="studio-feature-grid is-reset">
               <figure class="studio-signal-card"><figcaption><strong>Voltage (V)</strong></figcaption><svg viewBox="0 0 240 112" role="img" aria-label="Illustrative voltage line chart"><g class="studio-mini-grid"><path d="M28 12v76h198M28 31h198M28 50h198M28 69h198"/></g><path class="studio-signal-line line-blue" d="M28 77 C47 74 55 56 76 58 S106 71 124 46 S157 25 176 32 S204 51 226 21"/><text x="226" y="104" text-anchor="end">Cycle / time</text></svg></figure>
@@ -2112,7 +2116,7 @@ for dataset in resp.json()["items"]:
 <script src="js/analytics.js"></script>
 <script src="js/quality-engine.js"></script>
 <script src="js/main.js"></script>
-<script src="js/digital-twin.js?v=studio-workspace-15"></script>
+<script src="js/digital-twin.js?v=studio-workspace-18"></script>
 <script src="js/benchmark-results.js?v=real-curves-1"></script>
 <script src="js/preprocessing.js"></script>
 <script src="js/contribute.js"></script>

diff --git a/js/digital-twin.js b/js/digital-twin.js
@@ -66,11 +66,11 @@
   const catalog = () => bwFlowSortedDatasets(getCatalogDatasets().filter(bwIsCycleAgingDataset));
   const format = (key, value) => key === 'charge' ? value.toFixed(1) : String(value);
   const twinAssets = {
-    '18650': 'assets/images/studio-batteries/18650.png',
-    '21700': 'assets/images/studio-batteries/21700.png',
-    pouch: 'assets/images/studio-batteries/pouch.png',
-    prismatic: 'assets/images/studio-batteries/prismatic.png',
-    cyl: 'assets/images/studio-batteries/cyl.png'
+    '18650': 'assets/images/studio-batteries/18650.png?v=2',
+    '21700': 'assets/images/studio-batteries/21700.png?v=2',
+    pouch: 'assets/images/studio-batteries/pouch.png?v=2',
+    prismatic: 'assets/images/studio-batteries/prismatic.png?v=2',
+    cyl: 'assets/images/studio-batteries/cyl.png?v=2'
   };
   function twinAssetFor(form) {
     const value = String(form || '').trim().toLowerCase();
@@ -148,7 +148,15 @@
         image.src = asset;
         image.alt = `${dataset.form} battery illustration`;
         image.loading = 'eager';
-        visual.append(image);
+        const effects = document.createElement('div');
+        effects.className = 'studio-twin-effects';
+        effects.setAttribute('aria-hidden', 'true');
+        effects.innerHTML = '<span class="studio-twin-beam"></span><span class="studio-twin-platform"></span><span class="studio-twin-scan"></span><span class="studio-twin-particles"></span>';
+        const tags = document.createElement('div');
+        tags.className = 'studio-twin-tags';
+        tags.setAttribute('aria-hidden', 'true');
+        tags.innerHTML = '<span class="studio-twin-tag tag-soc"><i></i><b>SOC</b><em>82%</em></span><span class="studio-twin-tag tag-soh"><i></i><b>SOH</b><em>96%</em></span><span class="studio-twin-tag tag-voltage"><i></i><b>Voltage</b><em>3.68 V</em></span><span class="studio-twin-tag tag-temperature"><i></i><b>Temperature</b><em>28 °C</em></span>';
+        visual.append(effects, image, tags);
         el('twin').append(caption, visual);
       } else {
         const placeholder = document.createElement('span');
